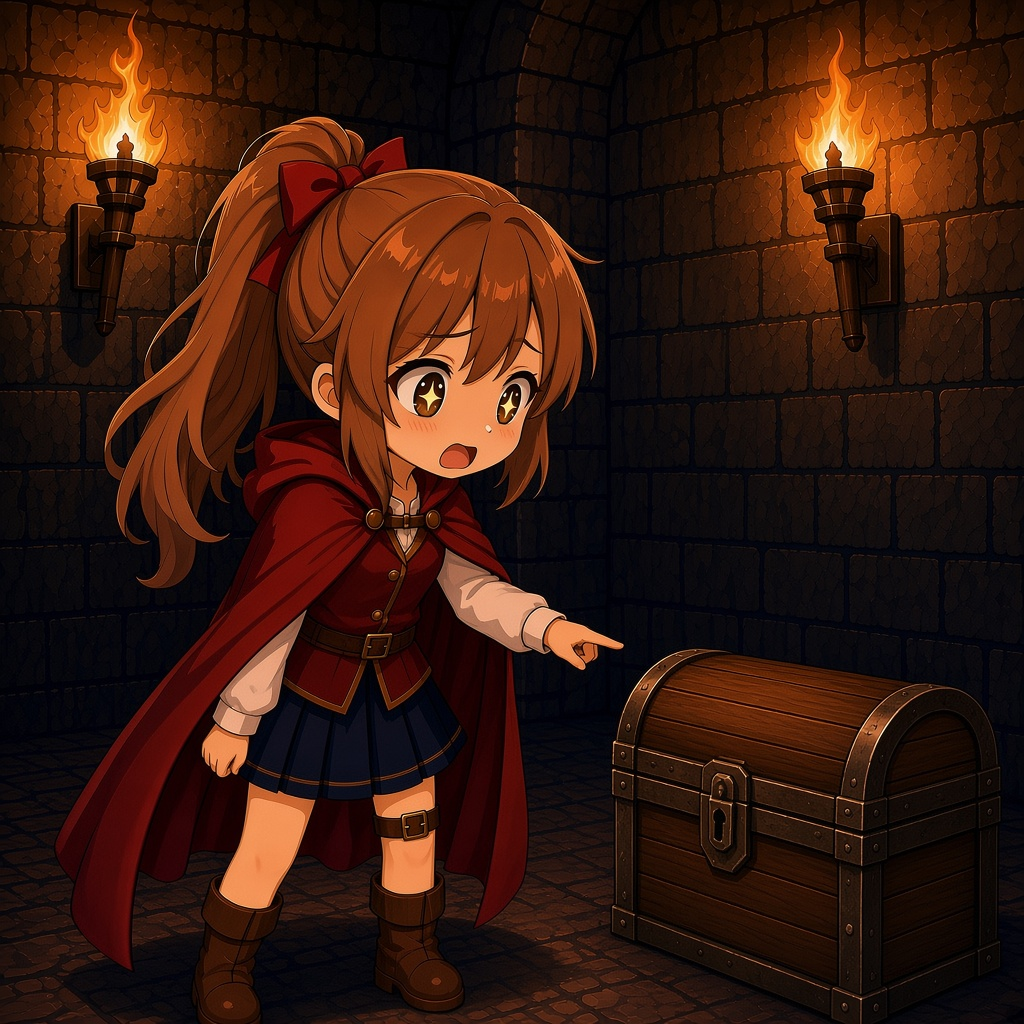
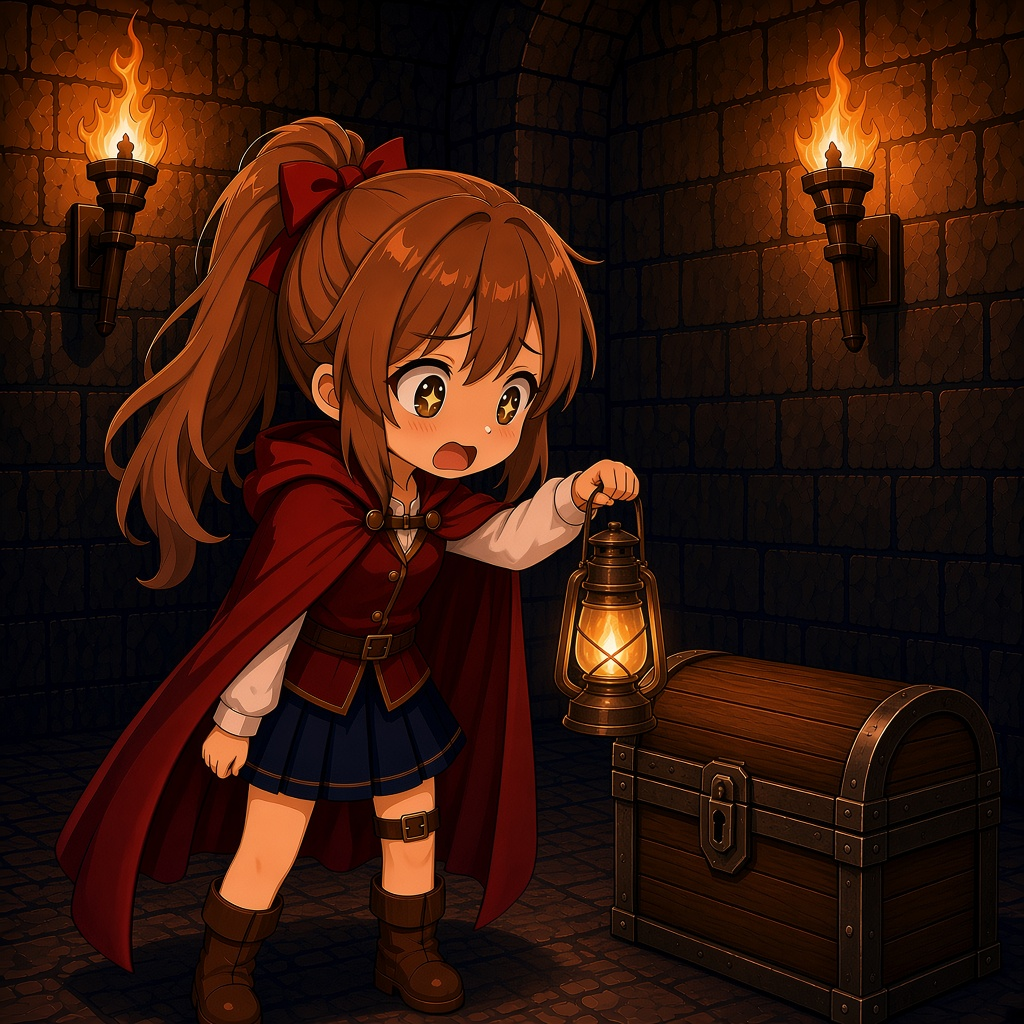
探索の道はランタンを持ち、驚いた顔で宝箱を見つける。

diff --git a/index.html b/index.html
@@ -7683,7 +7683,7 @@
     function roadFace(node) {
       const name = String(node || "");
       if (name === "出来事:祝福") return { src: "path-bless.jpg?v=19", label: "祝福" };
-      if (name === "出来事:探索") return { src: "path-search.jpg?v=12", label: "探索" };
+      if (name === "出来事:探索") return { src: "path-search.jpg?v=13", label: "探索" };
       if (name === "出来事:未知") return { src: "path-unknown.jpg?v=7", label: "遭遇" };
       if (name === "出来事:キャンプ") return { src: "path-rest.jpg?v=3", label: "休憩" };
       if (name === "出来事:お店") return { src: "path-shop.jpg?v=12", label: "お店" };
@@ -11560,7 +11560,7 @@
             <h3>道（三択）</h3>
             <p class="album-meta">道を選ぶときの候補アイコン。戦闘は赤、休憩とそのほかは青。左が休憩、真ん中が戦闘、右がそのほか</p>
             <div class="ref-grid">
-              ${sheetFig("path-search.jpg?v=12", "探索")}
+              ${sheetFig("path-search.jpg?v=13", "探索")}
               ${sheetFig("path-bless.jpg?v=19", "祝福")}
               ${sheetFig("path-fight.jpg?v=5", "戦闘", "", "path-series")}
               ${sheetFig("path-boss.jpg?v=2", "ボス戦", "", "path-series")}
@@ -12484,7 +12484,7 @@
     const PATHS = {
       camp: { name: "休憩", text: "体力が全快する。", image: "path-rest.jpg?v=3" },
       straight: { name: "戦闘", text: "このダンジョンの敵と戦う。", image: "path-fight.jpg?v=5" },
-      search: { name: "探索", text: "装備だけ。戦闘にはならない。", image: "path-search.jpg?v=12" },
+      search: { name: "探索", text: "装備だけ。戦闘にはならない。", image: "path-search.jpg?v=13" },
       beggar: { name: "物乞い", text: "カードを1枚捨てると、物乞いが襲ってくる。", image: "path-beggar.jpg?v=6" },
       shop: { name: "お店", text: "★で買い物。カード2つと装備2つ。", image: "path-shop.jpg?v=12" },
       lost: { name: "迷子", text: "見えているほかの道以外が起きる。ボス戦にはならない。", image: "path-lost.jpg?v=11" },
